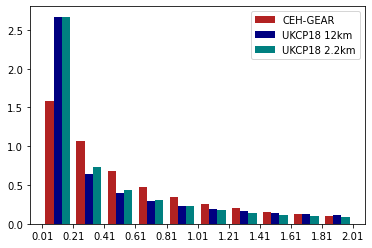
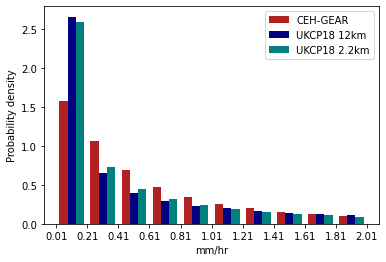
upated figs

Changed region(s): [[0.0, 0.0, 1.0, 0.9879]]

diff --git a/PrecipitationPDFs/leeds-at-centre/Compare_RCM_CPM_OBS.py b/PrecipitationPDFs/leeds-at-centre/Compare_RCM_CPM_OBS.py
@@ -418,24 +418,35 @@ for dict, overlapping_status in zip([leeds_data_dict, leeds_data_dict_overlappin
         plt.savefig("Scripts/UKCP18/PrecipitationPDFs/leeds-at-centre/PDFs/PercentileThresholds/{}_{}_{}.png".format(name, overlapping_status, jja_status))
         plt.clf()
 
-#
+
+##############################################################################
+##############################################################################
+just_12km = leeds_data_dict_overlapping.copy()
+del just_12km['Model 2.2km'], just_12km['Observations Regridded_2.2km'], just_12km['Observations']
+
 # ## Proportion of values in each which are 0
 # Should this be with regridded data?
 less_low_hours_lst = []
 low_hours_lst = []
 dry_hours_lst = []
 zero_hours_lst= []
+more_than_1_hours_lst= []
 for key, value in just_12km.items():
-    print(key)
+    print(value)
     df= value
-    less_low_hours_lst.append(round((len(value[value['Precipitation (mm/hr)'] <1])/len(value) *100  ),1))
-    low_hours_lst.append(round((len(value[value['Precipitation (mm/hr)'] <0.51])/len(value) *100  ),1))
+    
     zero_hours_lst.append(round((len(value[value['Precipitation (mm/hr)'] ==0])/len(value) *100  ),1))
-    dry_hours_lst.append(round((len(value[value['Precipitation (mm/hr)'] < 0.11])/len(value) *100  ),1))
+    dry_hours_lst.append(round((len(value[(value['Precipitation (mm/hr)'] <0.11) & value['Precipitation (mm/hr)']>0])/len(value) *100  ),1))
+    low_hours_lst.append(round((len(value[(value['Precipitation (mm/hr)'] <0.51) & value['Precipitation (mm/hr)']>0])/len(value) *100  ),1))
+    less_low_hours_lst.append(round((len(value[(value['Precipitation (mm/hr)'] <1) & value['Precipitation (mm/hr)']>0])/len(value) *100  ),1))    
+    more_than_1_hours_lst.append(round((len(value[value['Precipitation (mm/hr)'] >1])/len(value) *100  ),1))
+
 zeros_df = pd.DataFrame({'Key': list(just_12km.keys()), '% hours 0': zero_hours_lst, '% hours <0.1': dry_hours_lst ,'% hours <0.5': low_hours_lst,
-                         '% hours <1': less_low_hours_lst})
+                         '% hours <1': less_low_hours_lst, '% hours >1': more_than_1_hours_lst})
 
 
+
+###############
 model_12km = just_12km['Model 12km']
 model_2_2km = just_12km['Model 2.2km_regridded_12km']
 obs = just_12km['Observations Regridded_12km']
@@ -446,5 +457,9 @@ bins = [0.01, 0.21, 0.41, 0.61, 0.81, 1.01, 1.21, 1.41, 1.61 ,1.81, 2.01]
 plt.hist([obs['Precipitation (mm/hr)'], model_12km['Precipitation (mm/hr)'], model_2_2km['Precipitation (mm/hr)']],
           label = ['CEH-GEAR', 'UKCP18 12km', 'UKCP18 2.2km'],bins = bins,
           density = True, color = ['firebrick', 'navy',  'teal'])
+plt.xlabel('mm/hr')
+plt.ylabel('Probability density')
 plt.legend()
 plt.xticks(bins)
+
+
